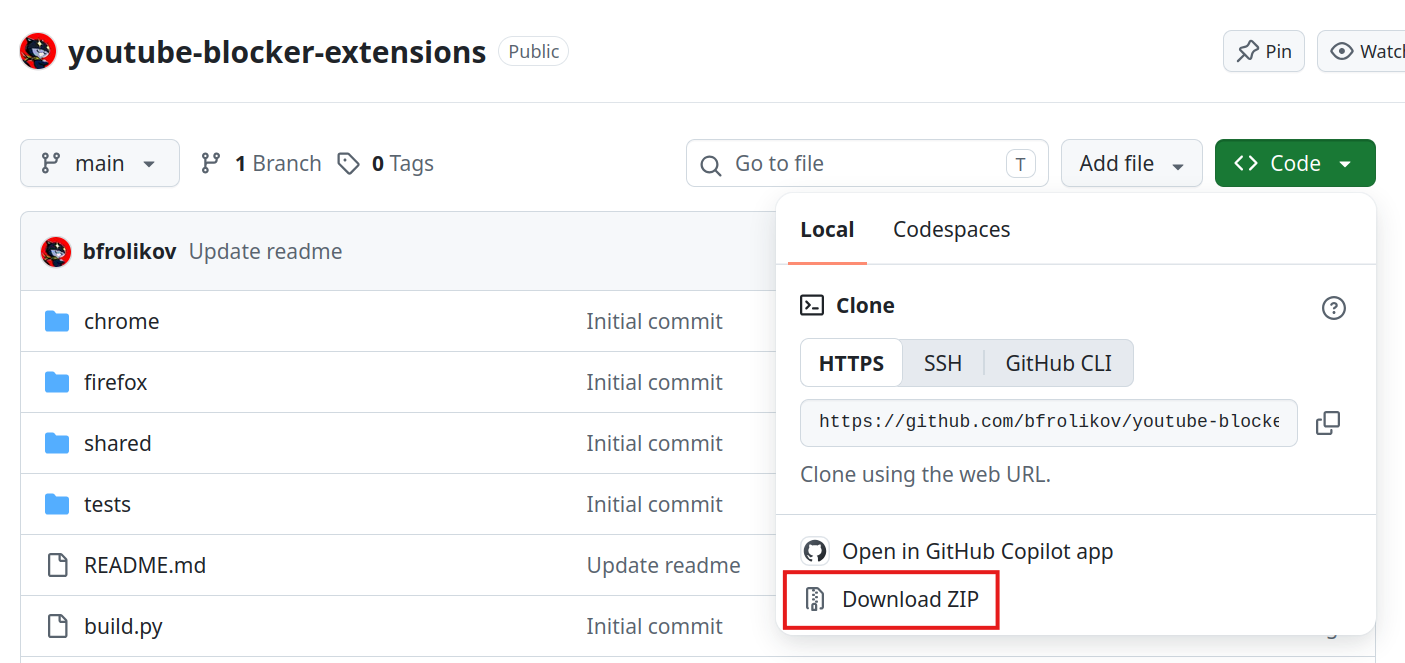
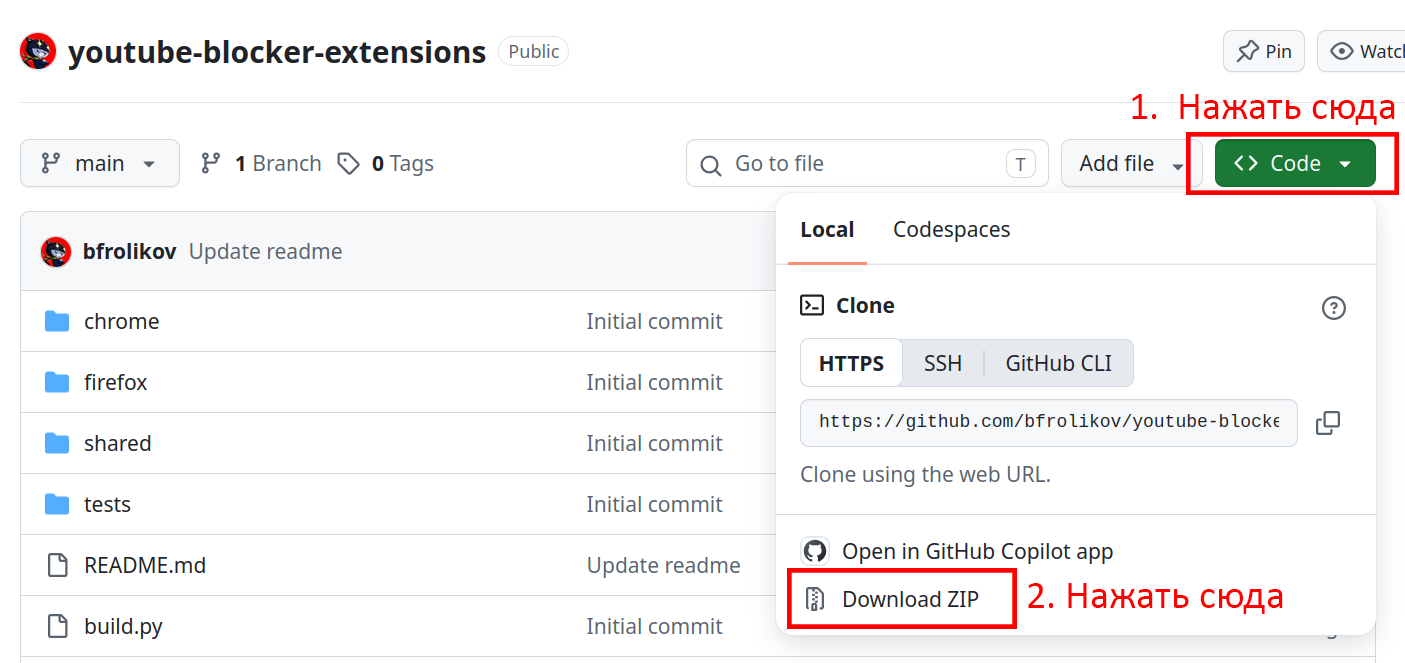
Improve docs

Changed region(s): [[0.5509, 0.8446, 0.9181, 0.9653], [0.7957, 0.1508, 1.0, 0.3017]]

diff --git a/README.md b/README.md
@@ -9,13 +9,16 @@
 
     * Нажать на зеленую кнопку `<> Code`.
     * Нажать на `Download ZIP`. 
-    ![alt text](misc/download.png)
-2. Распаковать. Расширения для Chrome и Firefox лежат в соответствующих папках.
 
+    ![download](misc/download.png)
+
+2. Распаковать ZIP файл. Расширения для Chrome и Firefox лежат в соответствующих папках
+    
+    ![unpacked](misc/unpacked.png)
 ### Chrome
 1. Открыть меню браузера (три точки в правом верхнем углу) -> Расширения -> Управление расширениями (или ввести в адресную строку `chrome://extensions/`).
 2. В правом верхнем углу страницы переключить тумблер «Режим разработчика» (Developer mode) в положение Вкл.
-3. Нажать на кнопку «Загрузить распакованное расширение» (Load unpacked) в левом верхнем углу. В открывшемся окне выбрать папку `chrome` из распакованного архива.
+3. Нажать на кнопку «Загрузить распакованное расширение» (Load unpacked) в левом верхнем углу. В открывшемся окне выбрать папку `chrome` из распакованного архива (смотри выше).
 
 ### Firefox
 1. Пока никак, для постоянной установки надо получить подпись от `addons.mozilla.org`.
